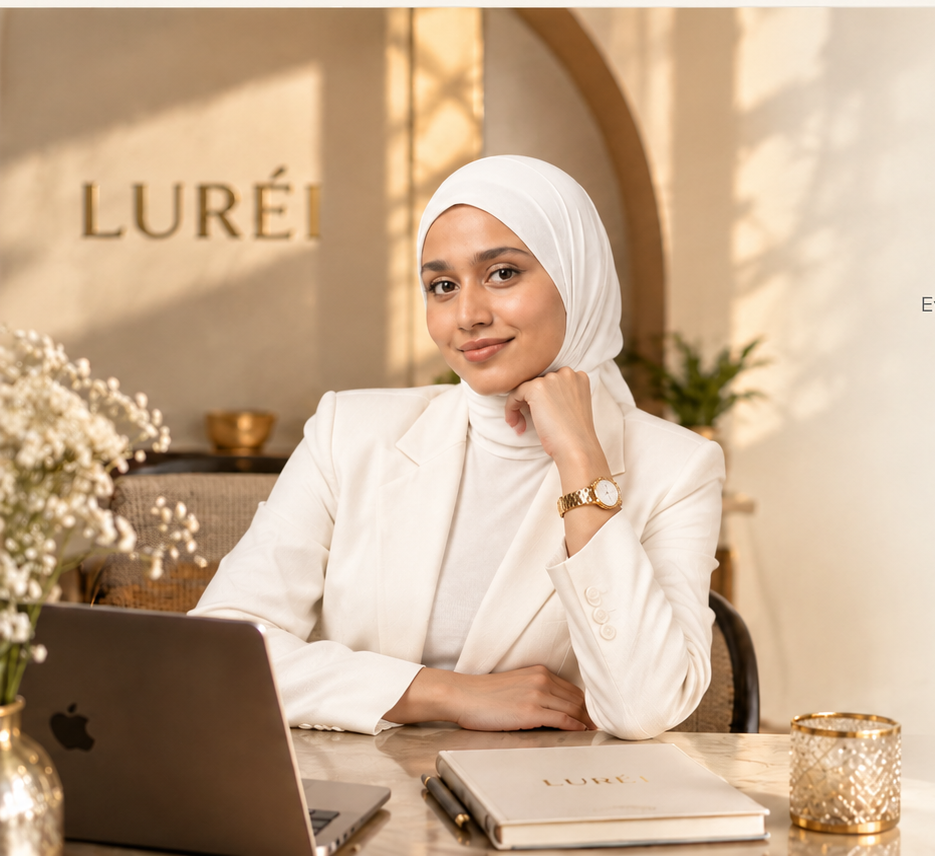
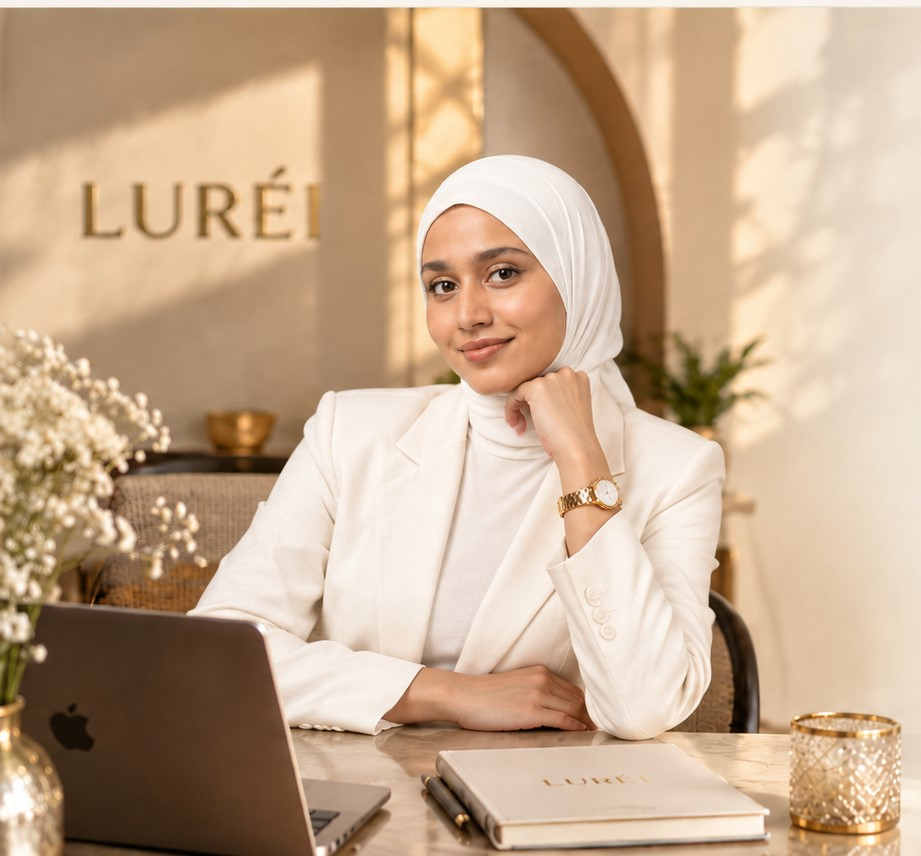
Update About Us owner image

diff --git a/about.html b/about.html
@@ -95,7 +95,7 @@
       <!-- Brand Hero: owner portrait + LURÉI Legacy intro side by side -->
       <div class="about-legacy-grid">
         <figure class="about-legacy-image">
-          <img src="assets/images/lureioweneraboutpage.jpg" alt="LURÉI Owner - The LURÉI Legacy" />
+          <img src="assets/images/lureioweneraboutpage.jpg?v=2" alt="LURÉI Owner - The LURÉI Legacy" />
         </figure>
         <div class="about-legacy-content">
           <p class="legacy__label">WELCOME TO LURÉI</p>
